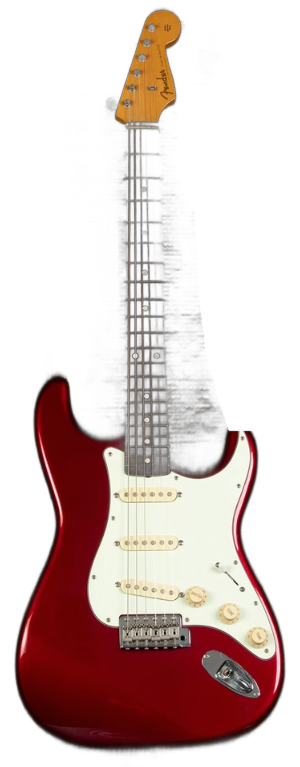
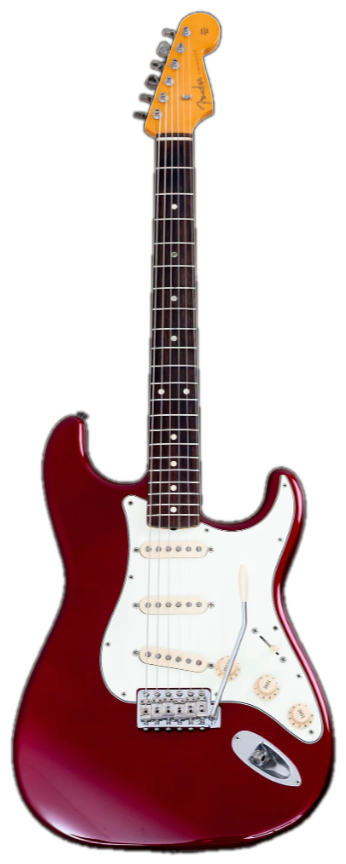
Mejora foto y corrige modelo a ST62-70TX Candy Apple Red

Changed region(s): [[0.03, 0.0, 0.99, 0.9896], [0.63, 0.3898, 0.69, 0.4498]]

diff --git a/index.html b/index.html
@@ -534,18 +534,18 @@
         <div class="plate">
           <span class="badge">Serie verificada</span>
           <span class="idx">09</span>
-          <img class="photo" src="fender-mij.png" alt="Fender ST62-TX MIJ, vista de frente">
+          <img class="photo" src="fender-mij.png" alt="Fender ST62-70TX MIJ Candy Apple Red, vista de frente">
           <span class="photo-tag">Foto real</span>
         </div>
         <div class="info">
           <div class="brand">Fender</div>
-          <h4 class="model">ST62-TX — Fender MIJ</h4>
+          <h4 class="model">ST62-70TX — Candy Apple Red</h4>
           <div class="spec-ticket">
             <div class="spec"><span class="k">Año</span><span class="v">2014</span></div>
             <div class="spec"><span class="k">Origen</span><span class="v">Japón</span></div>
             <div class="spec wide"><span class="k">N° de serie</span><span class="v">JD14016332</span></div>
           </div>
-          <p>El código de modelo "ST62-TX" identifica una Stratocaster de reedición '62 de Fender Japan equipada con pastillas "Texas Special" (de ahí el sufijo "TX"). Fender Japan nació en 1982 como empresa conjunta entre Fender, el distribuidor Kanda Shokai y el fabricante Fujigen Gakki, para ofrecer una alternativa oficial a las copias japonesas de la época. El prefijo "JD" identifica la numeración de serie usada en Japón desde 2012 en adelante, con los dos dígitos siguientes indicando el año — "14" fecha este instrumento en 2014, dentro de las líneas Traditional/Hybrid actuales, reconocidas por su relación calidad-precio frente a los modelos fabricados en Estados Unidos.</p>
+          <p>El código de modelo "ST62-70TX" identifica una Stratocaster de reedición '62 de Fender Japan equipada con pastillas "Texas Special" (de ahí el sufijo "TX"), en este caso terminada en el color translúcido "Candy Apple Red" que el "70" añade al código base. Fender Japan nació en 1982 como empresa conjunta entre Fender, el distribuidor Kanda Shokai y el fabricante Fujigen Gakki, para ofrecer una alternativa oficial a las copias japonesas de la época. El prefijo "JD" identifica la numeración de serie usada en Japón desde 2012 en adelante, con los dos dígitos siguientes indicando el año — "14" fecha este instrumento en 2014, dentro de las líneas Traditional/Hybrid actuales, reconocidas por su relación calidad-precio frente a los modelos fabricados en Estados Unidos.</p>
         </div>
       </article>
 
